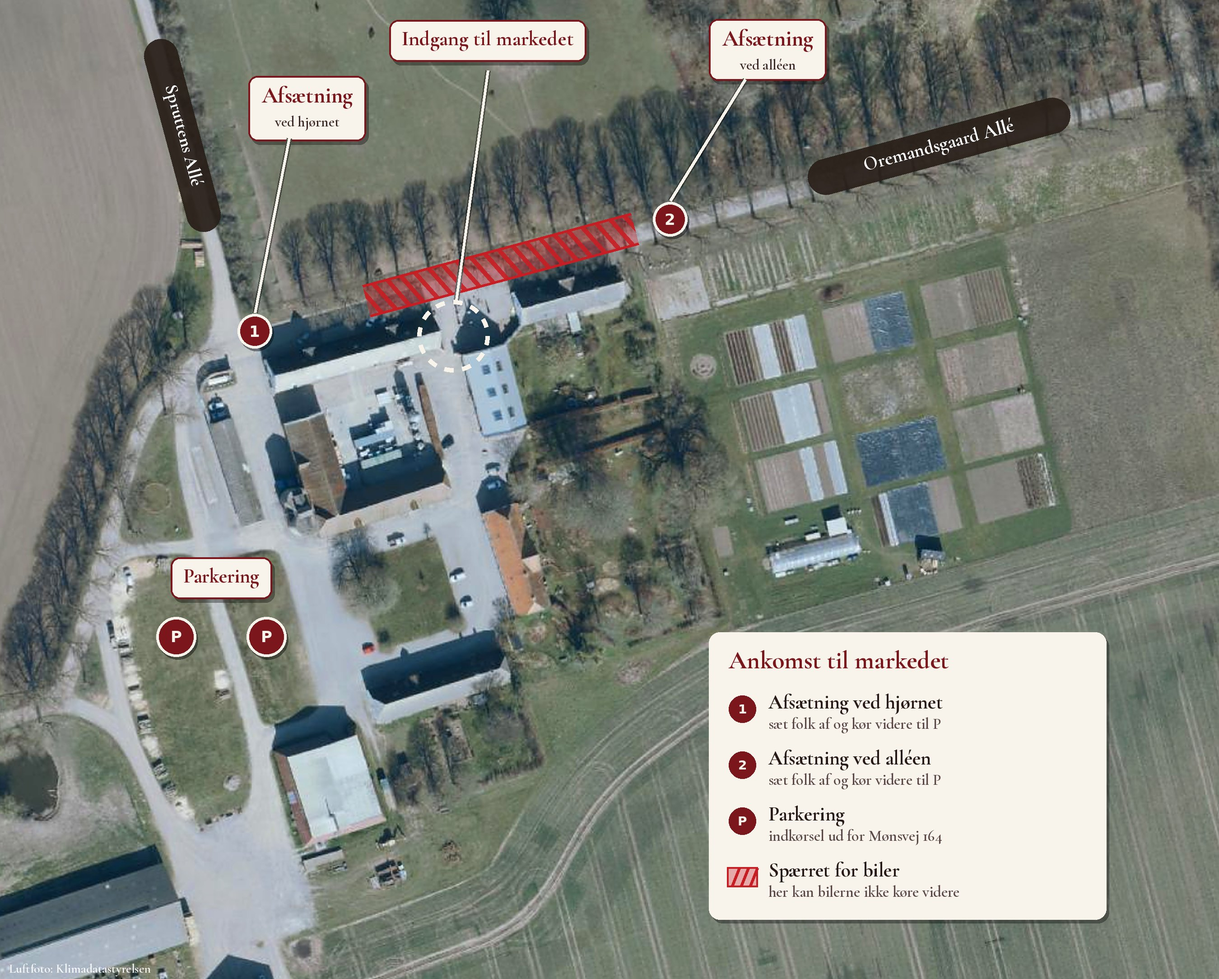
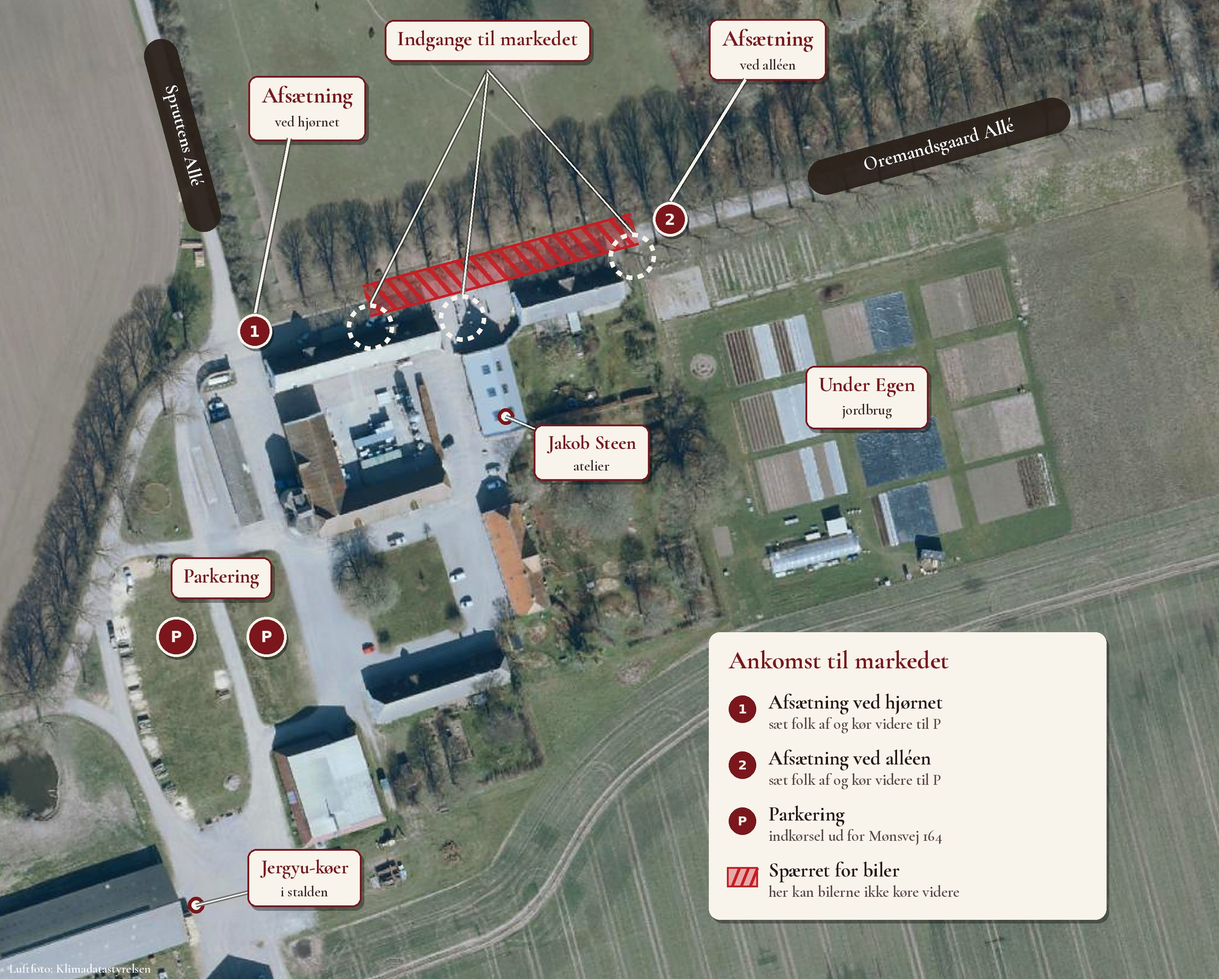
Ankomstkort: tre indgange, Jakob Steen, Under Egen og Jergyu-køer
Claude-Session: https://claude.ai/code/session_01Gk3Eubtf6vfGg3mRmp6Dxg

diff --git a/index.html b/index.html
@@ -428,7 +428,7 @@ footer p{margin:4px 0}
         <p style="margin-top:10px"><strong>Indkørsel og parkering sker ud for Mønsvej 164</strong> – på den modsatte side af vejen. Følg skiltene til P-pladsen. Kør ikke op til hovedbygningen – den er privat.</p>
         <a class="knap smaa" href="https://www.google.com/maps/search/?api=1&query=M%C3%B8nsvej+164%2C+4720+Pr%C3%A6st%C3%B8" target="_blank" rel="noopener">Vis indkørslen på kort</a>
         <img src="billeder/marked/skilt-indkoersel.jpg" width="700" height="1131" alt="Skilt: Velkommen til Bondemarked – indkørsel og parkering sker fra modsatte side ud for Mønsvej 164" loading="lazy" style="display:block;width:100%;max-width:260px;height:auto;margin-top:18px">
-        <img src="billeder/marked/ankomst-kort.jpg" width="1350" height="1084" alt="Luftfoto af Oremandsgaard med to afsætningssteder, spærret strækning på alléen, indgangen til markedet og parkeringen markeret" loading="lazy" style="display:block;width:100%;max-width:520px;height:auto;margin-top:18px;border-radius:6px">
+        <img src="billeder/marked/ankomst-kort.jpg" width="1350" height="1084" alt="Luftfoto af Oremandsgaard med afsætningssteder, spærret strækning på alléen, indgange til markedet, parkering, Jakob Steens atelier, Under Egen og Jergyu-køerne markeret" loading="lazy" style="display:block;width:100%;max-width:520px;height:auto;margin-top:18px;border-radius:6px">
       </div>
       <div>
         <h3>Hvornår</h3>
